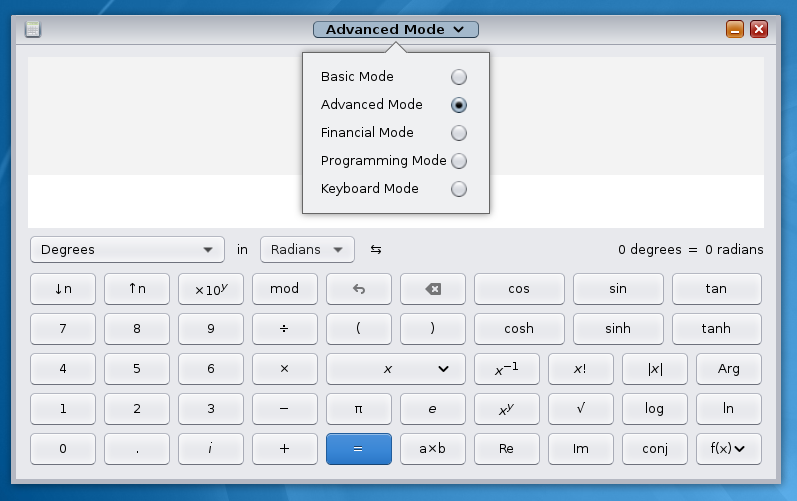
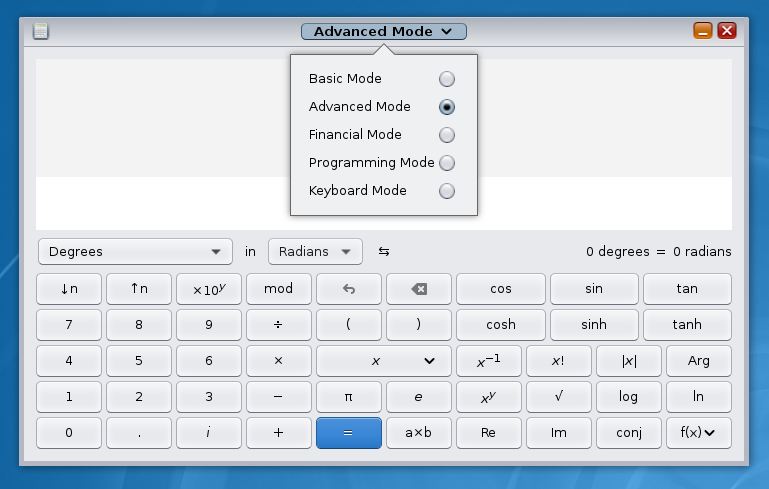
nimbus-gtk3: refined title buttons

Changed region(s): [[0.0, 0.0, 1.0, 1.0]]

diff --git a/components/look-and-feel/nimbus-gtk3/files/title-buttons.css b/components/look-and-feel/nimbus-gtk3/files/title-buttons.css
@@ -1,0 +1,88 @@
+/* close */
+.titlebutton.close {
+  background-image: -gtk-scaled(url("assets/title-buttons/button-close-icon.png"));
+}
+
+.titlebutton.close:active,
+.titlebutton.close:active:hover {
+  background-image: -gtk-scaled(url("assets/title-buttons/button-close-icon-pressed.png"));
+}
+
+.titlebutton.close:hover,
+.titlebutton.close:hover:focus {
+  background-image: -gtk-scaled(url("assets/title-buttons/button-close-icon-prelight.png"));
+}
+
+.titlebutton.close:backdrop {
+  background-image: -gtk-scaled(url("assets/title-buttons/button-close-icon-unfocused.png"));
+}
+
+/* minimize */
+.titlebutton.minimize {
+  background-image: -gtk-scaled(url("assets/title-buttons/button-min-icon.png"));
+}
+
+.titlebutton.minimize:active,
+.titlebutton.minimize:active:hover {
+  background-image: -gtk-scaled(url("assets/title-buttons/button-min-icon-pressed.png"));
+}
+
+.titlebutton.minimize:hover,
+.titlebutton.minimize:hover:focus {
+  background-image: -gtk-scaled(url("assets/title-buttons/button-min-icon-prelight.png"));
+}
+
+.titlebutton.minimize:backdrop {
+  background-image: -gtk-scaled(url("assets/title-buttons/button-min-icon-unfocused.png"));
+}
+
+/* maximize */
+.titlebutton.maximize {
+  background-image: -gtk-scaled(url("assets/title-buttons/button-max-icon.png"));
+}
+
+.titlebutton.maximize:active,
+.titlebutton.maximize:active:hover {
+  background-image: -gtk-scaled(url("assets/title-buttons/button-max-icon-pressed.png"));
+}
+
+.titlebutton.maximize:hover,
+.titlebutton.maximize:hover:focus {
+  background-image: -gtk-scaled(url("assets/title-buttons/button-max-icon-prelight.png"));
+}
+
+.titlebutton.maximize:backdrop {
+  background-image: -gtk-scaled(url("assets/title-buttons/button-max-icon-unfocused.png"));
+}
+
+/* unmaximize */
+.maximized .titlebutton.maximize {
+  background-image: -gtk-scaled(url("assets/title-buttons/button-unmax-icon.png"));
+}
+
+.maximized .titlebutton.maximize:active,
+.maximized .titlebutton.maximize:active:hover {
+  background-image: -gtk-scaled(url("assets/title-buttons/button-unmax-icon-pressed.png"));
+}
+
+.maximized .titlebutton.maximize:hover,
+.maximized .titlebutton.maximize:hover:focus {
+  background-image: -gtk-scaled(url("assets/title-buttons/button-unmax-icon-prelight.png"));
+}
+
+.maximized .titlebutton.maximize:backdrop {
+  background-image: -gtk-scaled(url("assets/title-buttons/button-unmax-icon-unfocused.png"));
+}
+
+.titlebutton.close,
+.titlebutton.maximize,
+.titlebutton.minimize {
+  color: transparent;
+  background-color: transparent;
+  border: 0px;
+  margin: -1px;
+  padding: 2px;
+  box-shadow: none;
+  background-position: center;
+  background-repeat: no-repeat;
+}
